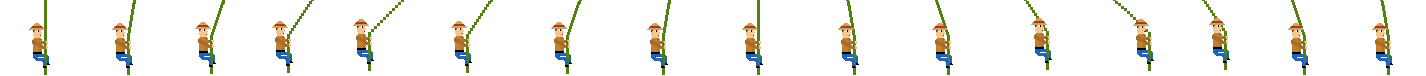
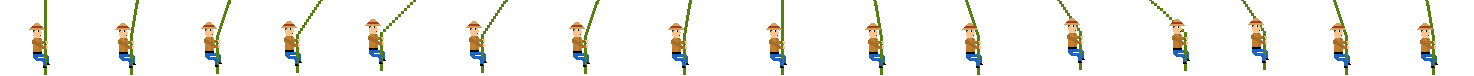
more vine animation updates
made the frames bigger

diff --git a/src/index.html b/src/index.html
@@ -39,7 +39,7 @@ function preload() {
     game.load.image('upSign', 'assets/upSign.png');
     game.load.image('pit', 'assets/Pit1.png');
     game.load.image('badSign', 'assets/badSign.png');
-    game.load.spritesheet('vineStrip', 'assets/vineStrip.png', 90, 75);
+    game.load.spritesheet('vineStrip', 'assets/vineStrip.png', 87, 75);
     game.load.image('vine', 'assets/Vine.png');
 }
 
